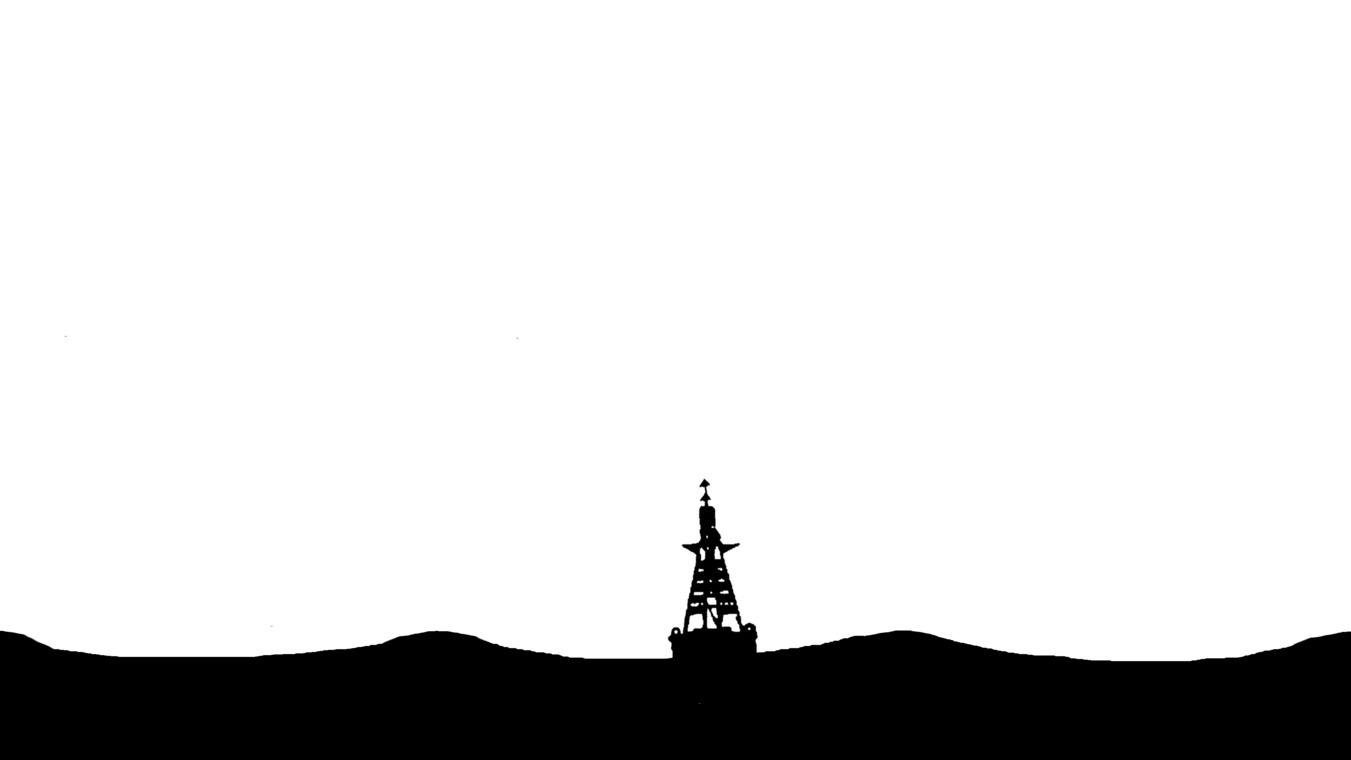
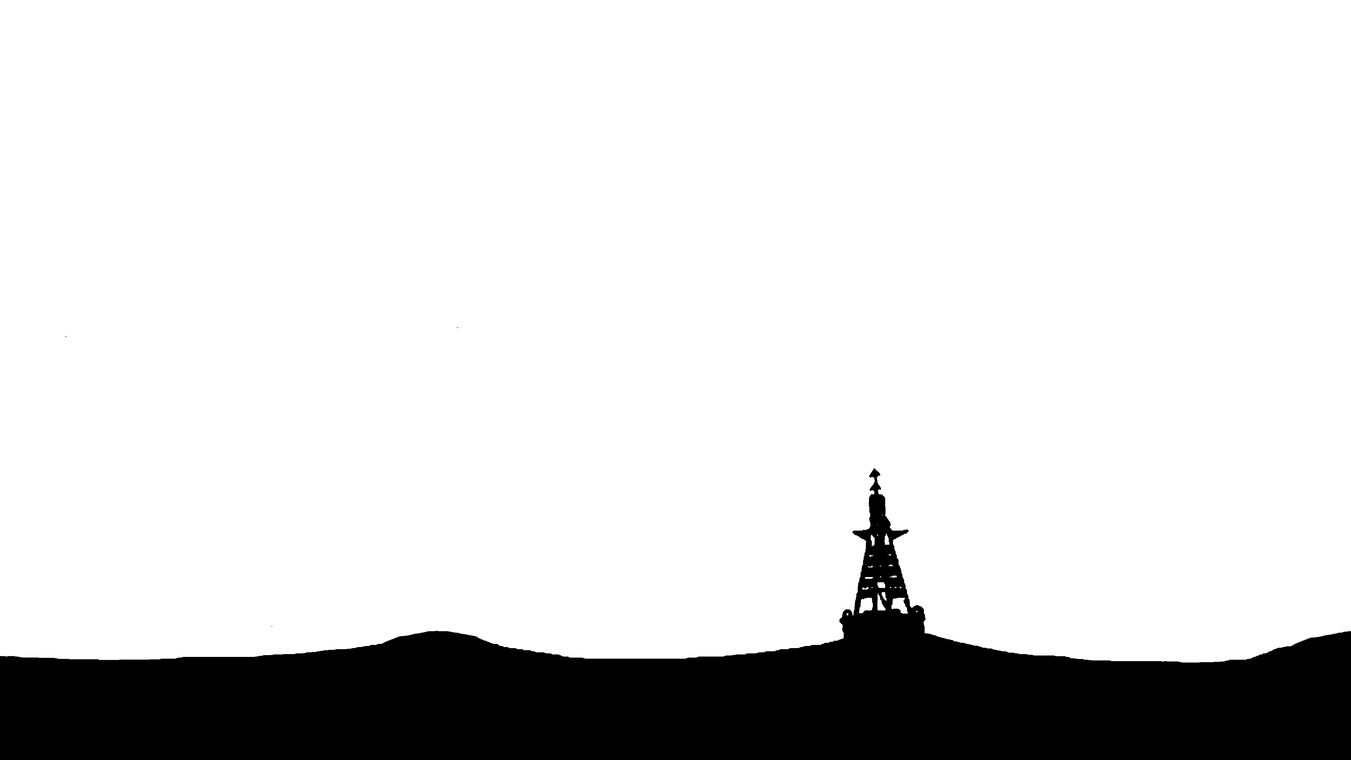
Seafloor rearrangement (including transparent background on the one that didn't have it) and other undersea tweaks

diff --git a/index.html b/index.html
@@ -303,7 +303,7 @@
 			}
 		}
 		.animate.swimCycle {
-			animation: swimCycle 8s linear infinite;
+			animation: swimCycle 12s linear infinite;
 		}
 
 		/* For fish that point the other way - otherwise they'll swim backwards... */
@@ -323,6 +323,23 @@
 		}
 		.animate.swimCycleRev {
 			animation: swimCycleRev 5s linear infinite;
+		}
+		@keyframes nemo {
+			0% {
+				transform: translate(0px, 0px) scaleX(1);
+			}
+			48% {
+				transform: translate(680px, 0px) scaleX(1);
+			}
+			52% {
+				transform: translate(680px, 0px) scaleX(-1);
+			}
+			98% {
+				transform: translate(0px, 0px) scaleX(-1);
+			}
+		}
+		.animate.nemo {
+			animation: nemo 15s ease-out infinite;
 		}
 
 		/* For larger slower fish */
@@ -577,8 +594,7 @@
 			top: 1400px;
 		}
 		#area-undersea #nemo {
-			top: 1500px;
-			animation-duration: 10s;
+			top: 1800px;
 		}
 		#area-undersea #seahorses {
 			bottom: 150px;
@@ -594,19 +610,19 @@
 		}
 		#area-undersea #moorishidol3 {
 			top: 680px;
-			animation-delay: 0.17s;
+			animation-delay: 0.3s;
 		}
 		#area-undersea #moorishidol4 {
 			top: 590px;
-			animation-delay: 0.35s;
+			animation-delay: 0.5s;
 		}
 		#area-undersea #moorishidol5 {
 			top: 500px;
-			animation-delay: 0.45s;
+			animation-delay: 0.6s;
 		}
 		#area-undersea #moorishidol6 {
 			top: 620px;
-			animation-delay: 0.60s;
+			animation-delay: 0.9s;
 		}
 		#area-undersea #starfish {
 			top: 1700px;
@@ -635,13 +651,9 @@
 		#area-undersea #seafloor6 {
 			bottom: 0px;
 		}
-		#area-undersea #seafloor7 {
-			bottom: 0px;
-		}
 
 		#area-undersea #chain {
-			top: 10px;
-			height: 2200px;
+			top: -100px;
 			z-index: 4; /* The fish that swim around it change from 5 to 3 */
 		}
 
@@ -870,7 +882,7 @@
 					<img id="anglerfish" src="images/2025/undersea/angler fish 1.png" class="animate moveAround3">
 					<img id="crab" src="images/2025/undersea/crab.png" class="animate crab">
 					<img id="jellyfishes" src="images/2025/undersea/jelly fishes.png" class="animate diagonalDrift">
-					<img id="nemo" src="images/2025/undersea/nemo.png" class="animate swimCycleRev">
+					<img id="nemo" src="images/2025/undersea/nemo.png" class="animate nemo">
 					<img id="seahorses" src="images/2025/undersea/sea horses.png" class="animate seahorses">
 					<img id="moorishidol1" src="images/2025/undersea/moorishidol.png" class="animate swimCycle">
 					<img id="moorishidol2" src="images/2025/undersea/moorishidol.png" class="animate swimCycle">
@@ -883,12 +895,11 @@
 					<img id="whale" src="images/2025/undersea/whale.png" class="animate whale">
 
 					<img id="seafloor1" src="images/2025/undersea/sea floor.png">
-					<img id="seafloor2" src="images/2025/undersea/sea floor 2.png">
-					<img id="seafloor3" src="images/2025/undersea/sea floor 3.png">
-					<img id="seafloor4" src="images/2025/undersea/sea floor 4.png">
-					<img id="seafloor5" src="images/2025/undersea/sea floor 2.png">
-					<img id="seafloor6" src="images/2025/undersea/sea floor 4.png">
-					<img id="seafloor7" src="images/2025/undersea/sea floor 3.png">
+					<img id="seafloor2" src="images/2025/undersea/sea floor 3.png">
+					<img id="seafloor3" src="images/2025/undersea/sea floor 4.png">
+					<img id="seafloor4" src="images/2025/undersea/sea floor 2.png">
+					<img id="seafloor5" src="images/2025/undersea/sea floor 4.png">
+					<img id="seafloor6" src="images/2025/undersea/sea floor 2.png">
 				</div>
 			</div>
 		</div>

diff --git a/shadowtheatre.js b/shadowtheatre.js
@@ -95,15 +95,15 @@ const XLOOP = {
 // I originally had position and width as arrays inside a single object, but I found that they were not getting reset properly. This works better.
 const UNDERSEA_ENTRY_POS = WIDTH["undersea"] / 2;
 const UNDERSEA_OBJECT_POS = {
-	"chain": UNDERSEA_ENTRY_POS,
+	"chain": 3000,
 	"fish1": 800,
 	"fish2": 600,
 	"jellyfish": 4300,
 	"anglerfish": 4150,
-	"crab": 3380,
+	"crab": 5040,
 	"jellyfishes": 1400,
-	"nemo": 5290,
-	"seahorses": 2850,
+	"nemo": 390,
+	"seahorses": 2680,
 	"moorishidol1": 3700, // We form the shoal by using different animation-delay on each fish
 	"moorishidol2": 3700,
 	"moorishidol3": 3700,
@@ -113,17 +113,16 @@ const UNDERSEA_OBJECT_POS = {
 	"starfish": 5315,
 	"turtle": 1000,
 	"whale": 4000,
-	"seafloor1": 50,
-	"seafloor2": 600,
-	"seafloor3": 1500,
-	"seafloor4": 2500,
-	"seafloor5": 3200,
-	"seafloor6": 4100,
-	"seafloor7": 4700,
+	"seafloor1": 0,
+	"seafloor2": 1400,
+	"seafloor3": 2300,
+	"seafloor4": 2950,
+	"seafloor5": 4100,
+	"seafloor6": 4900,
 };
 var underseaObjects = {};
 const UNDERSEA_OBJECT_WIDTH = {
-	"chain": 1297,
+	"chain": 1433,
 	"fish1": 500,
 	"fish2": 227,
 	"jellyfish": 547,
@@ -141,13 +140,12 @@ const UNDERSEA_OBJECT_WIDTH = {
 	"starfish": 228,
 	"turtle": 376,
 	"whale": 752,
-	"seafloor1": 702,
+	"seafloor1": 1600,
 	"seafloor2": 1103,
-	"seafloor3": 1103,
-	"seafloor4": 800,
-	"seafloor5": 1103,
-	"seafloor6": 800,
-	"seafloor7": 1103,
+	"seafloor3": 800,
+	"seafloor4": 1103,
+	"seafloor5": 800,
+	"seafloor6": 1103,
 };
 
 // These are the horizontal positions in each Area from where we can go up (1) or down (-1) to a different Area (or both)
